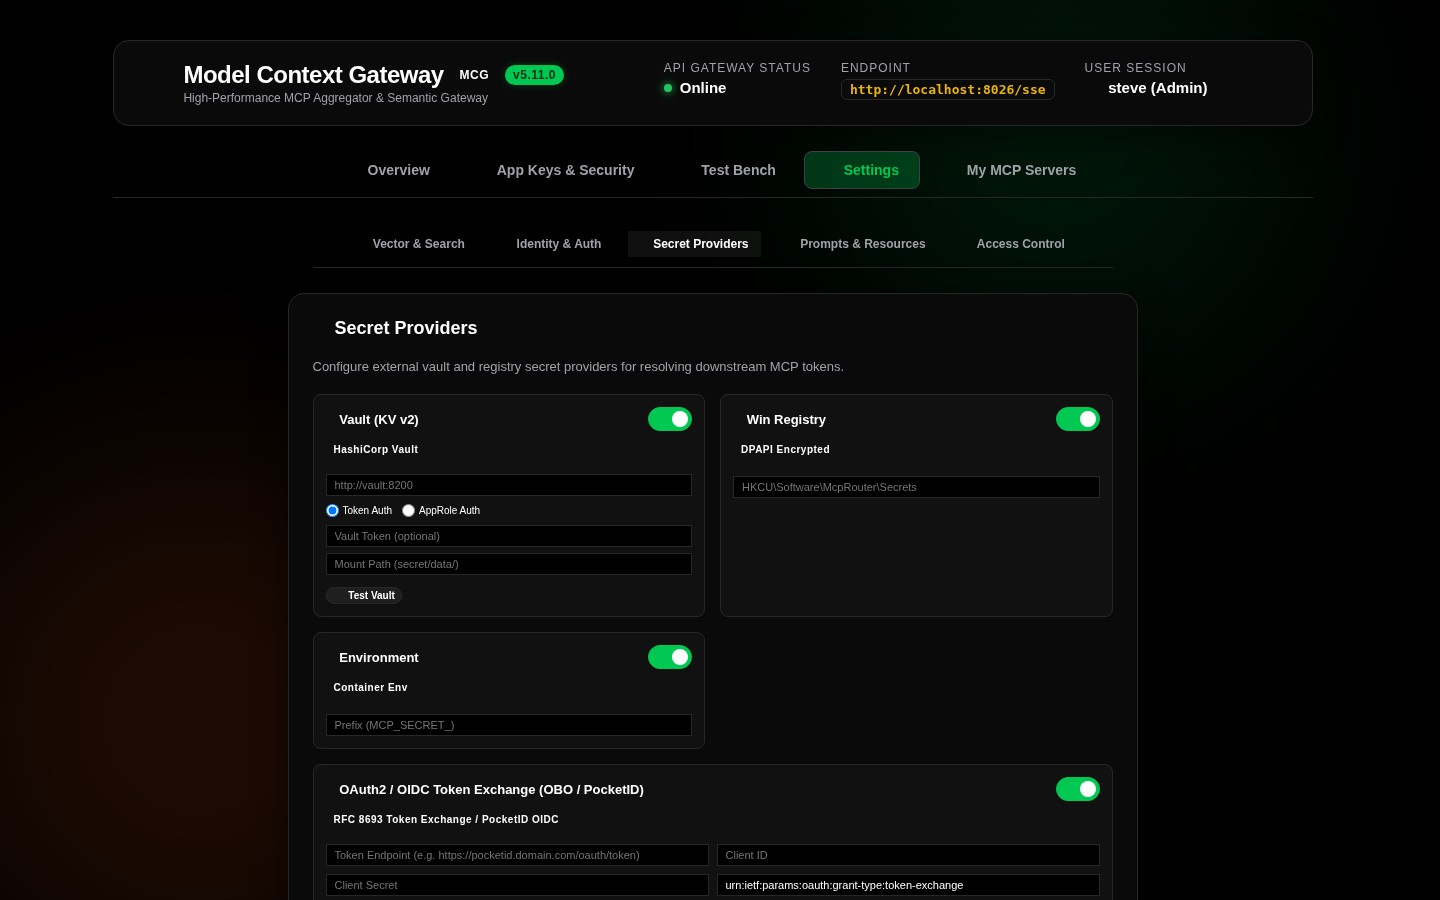
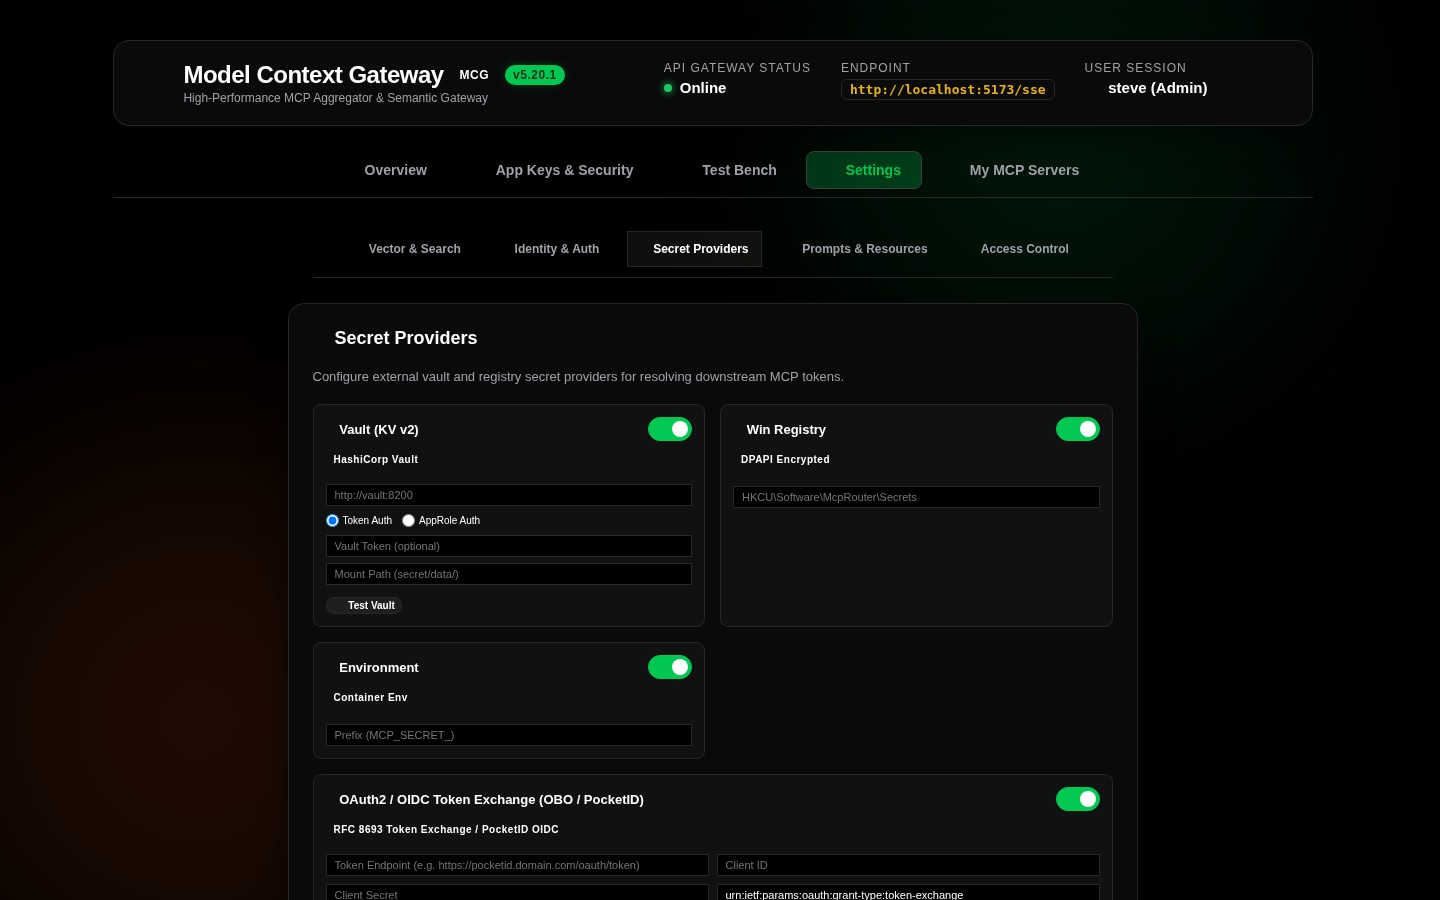
chore(release): bump version to 5.21.0, update docs, and capture live screenshots

diff --git a/frontend/src/shared/stores/useUserStore.ts b/frontend/src/shared/stores/useUserStore.ts
@@ -13,7 +13,7 @@ export interface UserStore {
 
 export const useUserStore = create<UserStore>((set) => ({
   user: null,
-  version: '5.20.1', // fallback default
+  version: '5.21.0', // fallback default
   service: 'ModelContextGateway',
   isLoadingUser: false,
   loadUser: async () => {

diff --git a/ModelContextGateway.Tests/SemanticSearchEndpointTests.cs b/ModelContextGateway.Tests/SemanticSearchEndpointTests.cs
@@ -6,10 +6,7 @@ using Dapper;
 using FluentAssertions;
 using Microsoft.Data.Sqlite;
 using Microsoft.Extensions.DependencyInjection;
-using Microsoft.Extensions.Logging.Abstractions;
 using Moq;
-using ModelContextGateway.Core.Routing;
-using ModelContextGateway.Tests.Attributes;
 
 namespace ModelContextGateway.Tests
 {
@@ -194,7 +191,7 @@ namespace ModelContextGateway.Tests
                 dbFactory,
                 connections,
                 servers,
-                NullLogger.Instance,
+                Microsoft.Extensions.Logging.Abstractions.NullLogger.Instance,
                 new HttpClient(),
                 mockEmbedding.Object,
                 () => Task.CompletedTask,

diff --git a/docs/user-guide/test-bench/semantic-search.md b/docs/user-guide/test-bench/semantic-search.md
@@ -1,60 +1,112 @@
 # Semantic Router & Search Simulator
 
-The **Semantic Router Simulator** (`SemanticRouterCard`) in the Test Bench enables you to test and fine-tune how MCG matches natural language intents to backend tools when AI clients call `search_tools` in **Meta-Mode**.
+The **Semantic Router Simulator** (`SemanticRouterCard`) in the Test Bench enables you to test, fine-tune, and inspect how MCG matches natural language intents to backend tools when AI clients call `search_tools` in **Meta-Mode**.
 
 ---
 
 ## 🧠 Simulator Interface & Layout
 
-![Semantic Router Simulator in Action](../../assets/test_bench_view.jpg)
+![Semantic Router Simulator in Action](../../assets/semantic_router_simulator.jpg)
+
+The simulator features:
+1. **3-Way Search Mode Toggle**: Switch between **Hybrid Fusion**, **Semantic (Vector)**, and **Lexical (Keyword)** modes.
+2. **Interactive Hybrid Split Slider & Presets**: In *Hybrid* mode, dynamically balance dense vector similarity against sparse lexical keyword scores with 5 quick presets:
+   - **Balanced (50/50)**: Equal 0.5/0.5 weighting between semantic intent and technical keyword matches.
+   - **Semantic Bias (70/30)**: Prioritizes vector embeddings for conceptual queries.
+   - **Keyword Bias (30/70)**: Prioritizes exact command, tool name, or parameter token matches.
+   - **Pure Semantic (100/0)**: Dense vector similarity only.
+   - **Pure Keyword (0/100)**: Sparse BM25 / token match only.
+3. **Result Limit Selector**: Choose `5`, `10`, `15`, or `25` candidate tools.
+4. **Decomposed Score Breakdown**: Hit cards display the total combined score alongside individual `Semantic` and `Keyword` percentage badges.
+5. **1-Click "Test Tool" Action**: Seamlessly transitions to the **Tools** tab with the selected tool and its upstream server pre-loaded in the Tool Tester.
 
 ---
 
-## 🔍 Understanding the Hybrid Scoring Algorithm (Reciprocal Rank Fusion)
+## 🔍 Understanding the Calibrated Scoring Model
 
-MCG uses an enterprise-grade **Reciprocal Rank Fusion (RRF, $k=60$)** hybrid ranking pipeline that merges lexical keyword precision with dense vector semantic understanding:
+MCG combines hardware-accelerated vector similarity (.NET 10 SIMD `TensorPrimitives.CosineSimilarity`) with normalized lexical matching into a calibrated linear combination:
 
 ```mermaid
 flowchart TD
-    Query["<b>Client Natural Language Query</b><br><code>search_tools</code> ('restart web proxy')"] --> Split{"Parallel Candidate Ranking"}
+    Query["<b>Client Natural Language Query</b><br><code>search_tools</code> ('restart web proxy')"] --> Split{"Parallel Candidate Scoring"}
 
-    Split --> Lexical["<b>1. Lexical Keyword Engine</b><br>BM25 exact phrase & token matches<br>across tool names, descriptions & tags"]
-    Split --> Vector["<b>2. SIMD Vector Search Engine</b><br>Dense embedding cosine similarity<br>via .NET 10 hardware SIMD intrinsics"]
+    Split --> Lexical["<b>1. Lexical Keyword Engine</b><br>Token & phrase matches across tool names,<br>descriptions & schemas; normalized to [0, 1]"]
+    Split --> Vector["<b>2. SIMD Vector Engine</b><br>Dense embedding cosine similarity<br>via hardware SIMD intrinsics clamped to [0, 1]"]
 
-    Lexical --> RRF["<b>3. Reciprocal Rank Fusion (RRF, k=60)</b><br>RRF_Score = 1.0/(60 + Rank_lexical) + 1.0/(60 + Rank_vector)"]
-    Vector --> RRF
+    Lexical --> Fusion["<b>3. Calibrated Linear Combination</b><br>Score = alpha * DenseScore + (1 - alpha) * SparseScore"]
+    Vector --> Fusion
 
-    RRF --> Output["<b>Final Tool Ranking</b><br>Top-k namespaced tools & JSON input schemas"]
+    Fusion --> Output["<b>Final Tool Ranking</b><br>Sorted by Score with decomposed diagnostics"]
 ```
 
-### Reciprocal Rank Fusion (RRF) Formula
-$$RRF\_Score(tool) = \frac{1.0}{60 + Rank_{keyword}(tool)} + \frac{1.0}{60 + Rank_{vector}(tool)}$$
+### Scoring Formula
+$$\text{Score} = \alpha \cdot \text{DenseScore} + (1.0 - \alpha) \cdot \text{SparseScore}$$
 
-* **$Rank_{keyword}$**: Ranked position derived from lexical matches across tool names, documentation descriptions, categories, and JSON Schema argument properties.
-* **$Rank_{vector}$**: Ranked position derived from dense embedding cosine similarity using **.NET 10 hardware SIMD intrinsics** (`TensorPrimitives.CosineSimilarity`).
-* **Why RRF?**: Unlike linear additive scoring, RRF is immune to semantic scale compression, prevents score saturation, guarantees that exact technical command names rank highest, and gracefully falls back to pure keyword rankings if vector providers are offline.
+* **$\alpha$ (`dense_weight`)**: Configurable weight in $[0.0, 1.0]$ (default $0.5$).
+  - When Mode is `semantic`: $\alpha = 1.0$.
+  - When Mode is `lexical`: $\alpha = 0.0$.
+  - When Mode is `hybrid`: $\alpha$ matches the slider setting.
+* **$\text{DenseScore}$**: SIMD cosine similarity clamped between $0.0$ and $1.0$.
+* **$\text{SparseScore}$**: Min-max normalized lexical match score across candidate tools.
 
 ---
 
 ## 📋 How to Run a Simulation
 
-1. **Enter Natural Language Query**: Type a representative prompt or intent (e.g. *"check disk usage"*, *"turn off living room lights"*, or *"reboot proxy"*).
-2. **Set Result Limit**: Choose the maximum number of results to return (default: `5`).
-3. **Simulate**: Click **Simulate Semantic Search**.
-4. **Evaluate Results**: Review the ranked list of matching tools. Each entry displays its calculated composite score, match tier (🟢 High, 🟡 Moderate, ⚪ Low), and description snippet.
-5. **Optimize**: If a desired tool does not rank highly, refine the tool's description or add relevant category tags in server settings to boost its semantic relevance.
+1. **Select Search Mode**: Choose `Hybrid Fusion`, `Semantic (Vector)`, or `Lexical (Keyword)`.
+2. **Calibrate Dense Weight**: In Hybrid mode, adjust the slider or click a preset chip (e.g., `Balanced (50/50)` or `Semantic Bias (70/30)`).
+3. **Enter Intent Query**: Type a natural language prompt (e.g. *"restart docker container"* or *"fetch plex media"*).
+4. **Select Limit**: Set the maximum tools to inspect (`5`, `10`, `15`, or `25`).
+5. **Evaluate Results**: Inspect total score %, semantic %, and keyword % badges, along with formatted tool descriptions.
+6. **Test the Tool**: Click **Test Tool** on any hit card to immediately test execution in the Tool Tester form.
 
 ---
 
-## 💻 API & cURL Invocation
+## 💻 API & Meta-Mode MCP Tool Invocation
 
-You can simulate semantic routing via REST API calls to `/api/test/semantic-search`:
-
+### REST API (`POST /api/test/semantic-search`)
 ```bash
 curl -X POST http://localhost:8080/api/test/semantic-search \
   -H "Authorization: Bearer <YOUR_APP_KEY>" \
   -H "Content-Type: application/json" \
   -d '{
-    "query": "restart web proxy container"
+    "query": "restart web proxy container",
+    "mode": "hybrid",
+    "denseWeight": 0.7,
+    "limit": 15
   }'
+```
+
+Response includes decomposed score diagnostics:
+```json
+{
+  "query": "restart web proxy container",
+  "mode": "hybrid",
+  "denseWeight": 0.7,
+  "results": [
+    {
+      "tool": { "name": "docker__restart_container", "description": "..." },
+      "toolName": "docker__restart_container",
+      "serverId": "docker",
+      "score": 0.884,
+      "denseScore": 0.920,
+      "sparseScore": 0.800,
+      "denseRank": 1,
+      "sparseRank": 1
+    }
+  ]
+}
+```
+
+### Meta-Mode MCP Tool (`search_tools`)
+AI agents calling `search_tools` can optionally pass `mode` and `dense_weight`:
+```json
+{
+  "name": "search_tools",
+  "arguments": {
+    "query": "find proxy tools",
+    "mode": "hybrid",
+    "dense_weight": 0.5
+  }
+}
 ```

diff --git a/docs/software-requirements-and-test-catalog.md b/docs/software-requirements-and-test-catalog.md
@@ -1272,15 +1272,15 @@
   - [Backend xUnit] [`ModelContextGateway.Tests/ToolRoutingManagerHybridSearchTests.cs#L203`](https://github.com/spelech/model-context-gateway/blob/main/ModelContextGateway.Tests/ToolRoutingManagerHybridSearchTests.cs#L203) (`HybridSearch_WithSemanticMode_OnlyScoresDenseSimilarity`)
   - [Backend xUnit] [`ModelContextGateway.Tests/ToolRoutingManagerHybridSearchTests.cs#L248`](https://github.com/spelech/model-context-gateway/blob/main/ModelContextGateway.Tests/ToolRoutingManagerHybridSearchTests.cs#L248) (`HybridSearch_WithLexicalMode_OnlyScoresLexicalMatch`)
   - [Backend xUnit] [`ModelContextGateway.Tests/ToolRoutingManagerHybridSearchTests.cs#L293`](https://github.com/spelech/model-context-gateway/blob/main/ModelContextGateway.Tests/ToolRoutingManagerHybridSearchTests.cs#L293) (`HybridSearch_ReturnsDecomposedScores`)
-  - [Backend xUnit] [`ModelContextGateway.Tests/SemanticSearchEndpointTests.cs#L46`](https://github.com/spelech/model-context-gateway/blob/main/ModelContextGateway.Tests/SemanticSearchEndpointTests.cs#L46) (`SemanticSearchEndpoint_ReturnsCalibratedHybridResultsWithDiagnostics`)
-  - [Backend xUnit] [`ModelContextGateway.Tests/SemanticSearchEndpointTests.cs#L98`](https://github.com/spelech/model-context-gateway/blob/main/ModelContextGateway.Tests/SemanticSearchEndpointTests.cs#L98) (`SemanticSearchEndpoint_RespectsSearchModeAndDenseWeightParameters`)
+  - [Backend xUnit] [`ModelContextGateway.Tests/SemanticSearchEndpointTests.cs#L43`](https://github.com/spelech/model-context-gateway/blob/main/ModelContextGateway.Tests/SemanticSearchEndpointTests.cs#L43) (`SemanticSearchEndpoint_ReturnsCalibratedHybridResultsWithDiagnostics`)
+  - [Backend xUnit] [`ModelContextGateway.Tests/SemanticSearchEndpointTests.cs#L95`](https://github.com/spelech/model-context-gateway/blob/main/ModelContextGateway.Tests/SemanticSearchEndpointTests.cs#L95) (`SemanticSearchEndpoint_RespectsSearchModeAndDenseWeightParameters`)
 
 ### `[MCP-42]` Meta-mode search_tools MCP tool accepts optional mode and dense_weight arguments and executes calibrated tool retrieval.
 * **Category:** `MCP` (Model Context Protocol Engine & Tool Routing)
 * **Type:** Positive Feature Capability
 * **Verification Proofs (2):**
-  - [Backend xUnit] [`ModelContextGateway.Tests/SemanticSearchEndpointTests.cs#L132`](https://github.com/spelech/model-context-gateway/blob/main/ModelContextGateway.Tests/SemanticSearchEndpointTests.cs#L132) (`MetaModeTools_SearchToolsSchema_ExposesModeAndDenseWeight`)
-  - [Backend xUnit] [`ModelContextGateway.Tests/SemanticSearchEndpointTests.cs#L164`](https://github.com/spelech/model-context-gateway/blob/main/ModelContextGateway.Tests/SemanticSearchEndpointTests.cs#L164) (`SearchTools_CustomToolCall_ExecutesWithModeAndDenseWeight`)
+  - [Backend xUnit] [`ModelContextGateway.Tests/SemanticSearchEndpointTests.cs#L129`](https://github.com/spelech/model-context-gateway/blob/main/ModelContextGateway.Tests/SemanticSearchEndpointTests.cs#L129) (`MetaModeTools_SearchToolsSchema_ExposesModeAndDenseWeight`)
+  - [Backend xUnit] [`ModelContextGateway.Tests/SemanticSearchEndpointTests.cs#L161`](https://github.com/spelech/model-context-gateway/blob/main/ModelContextGateway.Tests/SemanticSearchEndpointTests.cs#L161) (`SearchTools_CustomToolCall_ExecutesWithModeAndDenseWeight`)
 
 ### `[MCP-ADMIN-ENDPOINT-CALL-TOOL]` Admin endpoint /admin/message executes tools/call for manage_system diagnostics.
 * **Category:** `MCP` (Model Context Protocol Engine & Tool Routing)
@@ -3680,7 +3680,7 @@
 | `MCP-39` | Positive | `MCP` | CapabilityEndpoints test bench APIs return 404 Not Found gracefully when target server is missing. | [`PromptAndResourceResilienceTests.cs:L165`](https://github.com/spelech/model-context-gateway/blob/main/ModelContextGateway.Tests/PromptAndResourceResilienceTests.cs#L165) | Backend xUnit |
 | `MCP-40` | Positive | `MCP` | Calibrated hybrid semantic search scoring with configurable dense weight and normalized linear combination. | [`ToolRoutingManagerHybridSearchTests.cs:L39`](https://github.com/spelech/model-context-gateway/blob/main/ModelContextGateway.Tests/ToolRoutingManagerHybridSearchTests.cs#L39) | Backend xUnit |
 | `MCP-41` | Positive | `MCP` | Explicit search modes (hybrid, semantic, lexical) and decomposed score diagnostics in ToolRoutingManager. | [`ToolRoutingManagerHybridSearchTests.cs:L203`](https://github.com/spelech/model-context-gateway/blob/main/ModelContextGateway.Tests/ToolRoutingManagerHybridSearchTests.cs#L203) | Backend xUnit |
-| `MCP-42` | Positive | `MCP` | Meta-mode search_tools MCP tool accepts optional mode and dense_weight arguments and executes calibrated tool retrieval. | [`SemanticSearchEndpointTests.cs:L132`](https://github.com/spelech/model-context-gateway/blob/main/ModelContextGateway.Tests/SemanticSearchEndpointTests.cs#L132) | Backend xUnit |
+| `MCP-42` | Positive | `MCP` | Meta-mode search_tools MCP tool accepts optional mode and dense_weight arguments and executes calibrated tool retrieval. | [`SemanticSearchEndpointTests.cs:L129`](https://github.com/spelech/model-context-gateway/blob/main/ModelContextGateway.Tests/SemanticSearchEndpointTests.cs#L129) | Backend xUnit |
 | `MCP-ADMIN-ENDPOINT-CALL-TOOL` | Positive | `MCP` | Admin endpoint /admin/message executes tools/call for manage_system diagnostics. | [`AdminEndpointsTests.cs:L294`](https://github.com/spelech/model-context-gateway/blob/main/ModelContextGateway.Tests/AdminEndpointsTests.cs#L294) | Backend xUnit |
 | `MCP-ADMIN-ENDPOINT-HEAD-REQUEST` | Positive | `MCP` | Admin endpoint /admin handles HEAD request returning text/event-stream headers. | [`AdminEndpointsTests.cs:L212`](https://github.com/spelech/model-context-gateway/blob/main/ModelContextGateway.Tests/AdminEndpointsTests.cs#L212) | Backend xUnit |
 | `MCP-ADMIN-ENDPOINT-LIST-TOOLS` | Positive | `MCP` | Admin endpoint /admin/message executes tools/list over active SSE session and returns 10 admin tools. | [`AdminEndpointsTests.cs:L224`](https://github.com/spelech/model-context-gateway/blob/main/ModelContextGateway.Tests/AdminEndpointsTests.cs#L224) | Backend xUnit |

diff --git a/README.md b/README.md
@@ -1,6 +1,6 @@
 # Model Context Gateway (MCG)
 
-![Version](https://img.shields.io/badge/version-v5.20.1-orange?style=for-the-badge)
+![Version](https://img.shields.io/badge/version-v5.21.0-orange?style=for-the-badge)
 [![Documentation](https://img.shields.io/badge/docs-GitHub%20Pages-blue?style=for-the-badge&logo=githubpages&logoColor=white)](https://spelech.github.io/model-context-gateway/)
 ![.NET 10.0](https://img.shields.io/badge/.NET-10.0-512BD4?style=for-the-badge&logo=dotnet&logoColor=white)
 ![MCP Spec](https://img.shields.io/badge/MCP%20Spec-2026--07--28-0052CC?style=for-the-badge)
@@ -175,11 +175,11 @@ For complete release history and version logs, see [**CHANGELOG.md**](CHANGELOG.
 
 | Version | Release Date | Summary of Key Changes |
 | :--- | :--- | :--- |
+| **`v5.21.0`** | 2026-10-02 | feat(routing): calibrated hybrid semantic search scoring, explicit search modes, and test bench simulator overhaul |
 | **`v5.20.1`** | 2026-09-30 | refactor(testbench): Remove Pre-fill Example Button and Streamline Dynamic Argument Handling. Removed the legacy Pre-fill Example button and unused bulk argument modification plumbing from the Test Bench tool tester card, eliminating brittle and unhelpful parameter mocks while preserving interactive form validation and tool execution coverage. |
 | **`v5.20.0`** | 2026-09-30 | feat(auth,ui,docs,ci): AppKey & OAuth Client Last-Used Tracking, Safe Secret Rotation Workflow, Multi-Client Config Generator, VitePress Documentation Architecture Overhaul, and 30-Day Dependabot Stability Cooldown. Implemented `LastUsedAt` audit tracking for AppKeys and OAuth clients across SQLite, MySQL, and MSSQL with an in-memory 60-second sliding debounce `ActivityTracker`; added atomic credential rotation endpoints (`POST /api/appkeys/{id}/rotate`, `POST /api/clients/{id}/rotate-secret`) returning plaintext keys once with SHA-256 hashing at rest; built two-stage `AppKeyRotateModal` with backdrop click-away protection and multi-client configuration generator (Claude Desktop, Cursor, Windsurf, generic JSON); overhauled VitePress documentation architecture with Diátaxis decomposition, path-scoped multi-sidebars, purged legacy ASCII art to responsive Mermaid diagrams, modernized typography rhythm, and link integrity CI quality gates; updated GitHub Actions to v7/v5; and configured a 30-day stability cooldown across all Dependabot ecosystems (`AUTH-118` through `AUTH-123`, `UI-135` through `UI-137`). |
 | **`v5.19.1`** | 2026-09-29 | docs(slack): Purge Deprecated Wrapper References, Renumber Documentation Sections, and Refresh Wiki. Streamlined documentation for Slack Native Direct MCP (`https://mcp.slack.com/mcp`) and the Hybrid Egress Delegation Model; eliminated legacy self-hosted Node.js wrapper references across repository and wiki; updated release assets; and pinned container image tags. |
 | **`v5.19.0`** | 2026-09-29 | feat(slack,oauth,ui): Slack Direct Native MCP Server Integration, 3LO OAuth Egress UI, and Hybrid Token Delegation Model. Added native integration with Slack's cloud MCP server (`https://mcp.slack.com/mcp`) over streamable HTTP; implemented Hybrid Egress fallback enabling autonomous background daemons (e.g. OpenClaw) to authenticate via static User OAuth tokens (`xoxp-...`) while allowing interactive users to authorize individually via 3-legged OAuth (3LO); relocated injected trace telemetry into `params._meta` to satisfy TypeScript SDK Zod `strict()` schema validation; added 3LO user delegation toggle and configuration fields to `ServerModal` UI; exposed OAuth properties in Admin MCP `manage_servers` tooling; added Slack OAuth callback handling for `user_scope` and non-expiring credentials; and resolved ESLint `prefer-const` rules. |
-| **`v5.18.0`** | 2026-09-27 | feat(core,ui,e2e): Comprehensive E2E Real Wiring Overhaul, Cold-Start Dynamic Delimiter Routing, Full data-testid UI Instrumentation, and Deterministic E2E Test Suite. Added on-demand delimiter-tolerant (`/`, `:`, `__`) routing across `PromptRoutingManager` and `ResourceRoutingManager` allowing connected agents to retrieve prompts and read un-virtualized `mcp://` resources without prior list handshakes; safely returned 404 for missing/disabled servers in `CapabilityEndpoints` testbench APIs; resolved runtime crashes in `AccessControlTab` with defensive array handling; instrumented all frontend components with standard `data-testid` attributes; created in-memory stateful `mockApi.ts` fixture eliminating 502 proxy errors during isolated E2E testing; eliminated all conditional skips and brittle locators in Playwright test suites (64/64 tests passing 100% across all 20 spec files); upgraded `mock-mcp-server` in `docker-compose.test.yml` to full Model Context Protocol parity; and achieved 1,209 total passing automated tests with zero requirements catalog drift (`MCP-36`, `MCP-37`, `MCP-38`, `MCP-39`, `UI-133`, `UI-134`, `TRANS-01`, `TRANS-02`, `SEC-01`, `AUTH-05`). |
 
 ---
 

diff --git a/CHANGELOG.md b/CHANGELOG.md
@@ -8,6 +8,7 @@ For summary details and quick references, see [README.md](README.md).
 
 | Version | Release Date | Summary of Key Changes |
 | :--- | :--- | :--- |
+| **`v5.21.0`** | 2026-10-02 | feat(routing): calibrated hybrid semantic search scoring, explicit search modes, and test bench simulator overhaul |
 | **`v5.20.1`** | 2026-09-30 | refactor(testbench): Remove Pre-fill Example Button and Streamline Dynamic Argument Handling. Removed the legacy Pre-fill Example button and unused bulk argument modification plumbing from the Test Bench tool tester card, eliminating brittle and unhelpful parameter mocks while preserving interactive form validation and tool execution coverage. |
 | **`v5.20.0`** | 2026-09-30 | feat(auth,ui,docs,ci): AppKey & OAuth Client Last-Used Tracking, Safe Secret Rotation Workflow, Multi-Client Config Generator, VitePress Documentation Architecture Overhaul, and 30-Day Dependabot Stability Cooldown. Implemented `LastUsedAt` audit tracking for AppKeys and OAuth clients across SQLite, MySQL, and MSSQL with an in-memory 60-second sliding debounce `ActivityTracker`; added atomic credential rotation endpoints (`POST /api/appkeys/{id}/rotate`, `POST /api/clients/{id}/rotate-secret`) returning plaintext keys once with SHA-256 hashing at rest; built two-stage `AppKeyRotateModal` with backdrop click-away protection and multi-client configuration generator (Claude Desktop, Cursor, Windsurf, generic JSON); overhauled VitePress documentation architecture with Diátaxis decomposition, path-scoped multi-sidebars, purged legacy ASCII art to responsive Mermaid diagrams, modernized typography rhythm, and link integrity CI quality gates; updated GitHub Actions to v7/v5; and configured a 30-day stability cooldown across all Dependabot ecosystems (`AUTH-118` through `AUTH-123`, `UI-135` through `UI-137`). |
 | **`v5.19.1`** | 2026-09-29 | docs(slack): Purge Deprecated Wrapper References, Renumber Documentation Sections, and Refresh Wiki. Streamlined documentation for Slack Native Direct MCP (`https://mcp.slack.com/mcp`) and the Hybrid Egress Delegation Model; eliminated legacy self-hosted Node.js wrapper references across repository and wiki; updated release assets; and pinned container image tags. |

diff --git a/ARCHITECTURE.md b/ARCHITECTURE.md
@@ -156,13 +156,13 @@ sequenceDiagram
     participant BackendConn as BackendConnection
     participant Downstream as MCP Backend
 
-    Client->>Router: POST /message?sessionId=1 (search_tools)
-    Router->>RoutingMgr: SearchToolsAsync("restart container")
+    Client->>Router: POST /message?sessionId=1 (search_tools: query, mode, dense_weight)
+    Router->>RoutingMgr: SearchToolsDetailedAsync("restart container", mode, denseWeight)
     RoutingMgr->>RoutingMgr: Compute Lexical Keyword Scoring (name, desc, tags, params)
     RoutingMgr->>VectorStore: SearchSimilarAsync(queryEmbedding) via .NET 10 SIMD
     VectorStore-->>RoutingMgr: Return Ranked Vector Similarities
-    RoutingMgr->>RoutingMgr: Fuse Ranks via Reciprocal Rank Fusion (RRF, k=60)
-    RoutingMgr-->>Router: Return Top Ranked Tools
+    RoutingMgr->>RoutingMgr: Calibrated Fusion: Score = alpha * DenseScore + (1 - alpha) * SparseScore
+    RoutingMgr-->>Router: Return Top Ranked Tools with Decomposed Scores
     Router-->>Client: Return namespaced search result JSON
 
     Client->>Router: POST /message?sessionId=1 (execute_tool: docker/restart_container)
